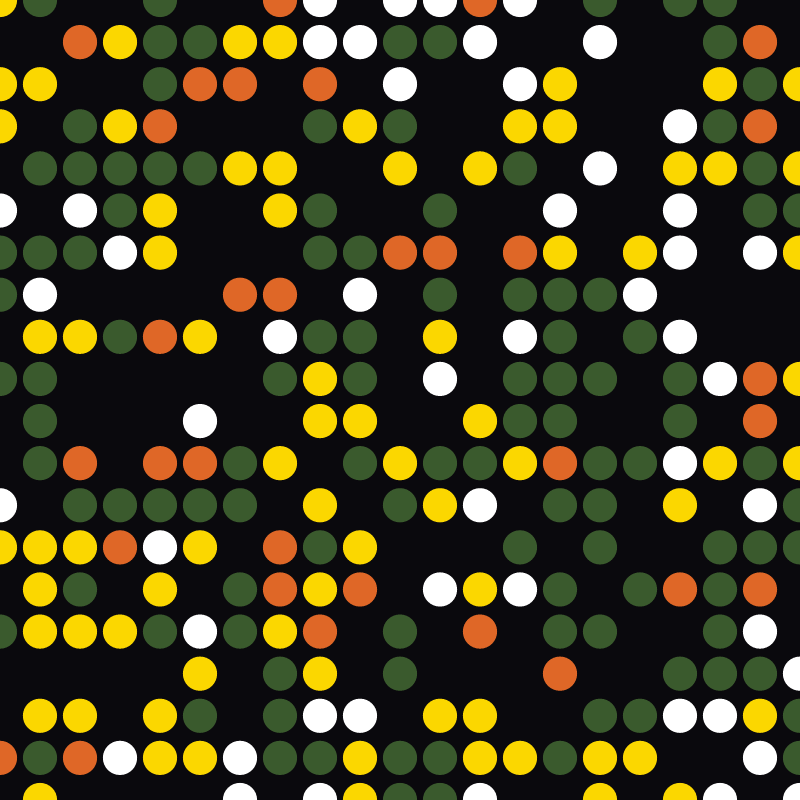
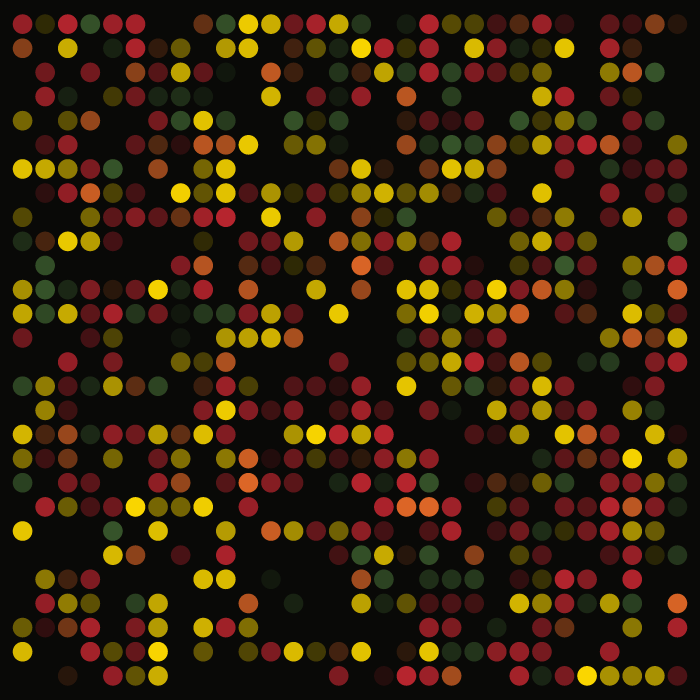
modified:   siliconreality.js 	modified:   specimens/2.png 	modified:   specimens/3.png 	modified:   specimens/4.png 	modified:   specimens/5.png 	modified:   specimens/6.png 	specimens/10.png 	specimens/11.png 	specimens/12.png 	specimens/13.png 	specimens/14.png 	specimens/15.png 	specimens/16.png

diff --git a/siliconreality.js b/siliconreality.js
@@ -4,7 +4,7 @@ function setup() {
     x = 10
     let bg = color(Math.trunc(random(0, x)), Math.trunc(random(0, x)), Math.trunc(random(0, x)))
 
-    canvaspx = 700
+    canvaspx = 1080
 
     createCanvas(canvaspx, canvaspx)
     background(bg)
@@ -60,7 +60,7 @@ function draw() {
         for (row = 0; row < numrows-2; row++) {
             if (p[col][row] === 1) {
                 color = random(cl)
-                color.setAlpha(random(35,255))
+                color.setAlpha(random(5,255))
                 fill(color)
                 circle(
                     width / (numcols - 1) * (col+1),
